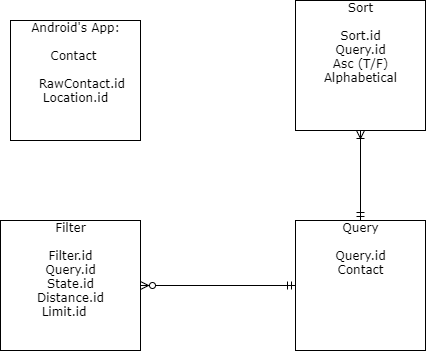
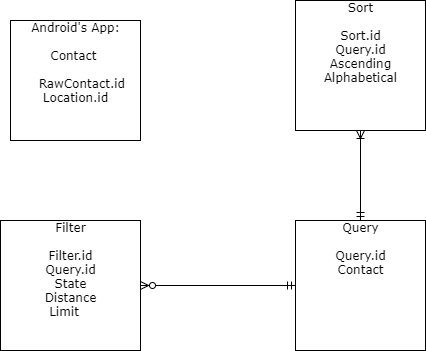
Added entity classes.

Changed region(s): [[0.0915, 0.7977, 0.2441, 0.9117], [0.7629, 0.1425, 0.9155, 0.1994]]

diff --git a/app/src/main/java/com/andpatten/contactmap/model/entity/Filter.java b/app/src/main/java/com/andpatten/contactmap/model/entity/Filter.java
@@ -1,0 +1,37 @@
+package com.andpatten.contactmap.model.entity;
+
+import androidx.annotation.NonNull;
+import androidx.room.ColumnInfo;
+import androidx.room.Entity;
+import androidx.room.ForeignKey;
+import androidx.room.PrimaryKey;
+
+@Entity(
+    foreignKeys = {
+        @ForeignKey(
+            entity = Query.class,
+            childColumns = "query_id",
+            parentColumns = "query_id",
+            onDelete = ForeignKey.CASCADE
+        )
+    }
+)
+
+public class Filter {
+
+  @PrimaryKey(autoGenerate = true)
+  @ColumnInfo(name = "filter_id")
+  private long id;
+
+  @ColumnInfo(name = "query_id")
+  private long queryId;
+
+  
+
+  private long state;
+
+  private long distance;
+
+  private long limit;
+
+}

diff --git a/app/src/main/java/com/andpatten/contactmap/model/entity/Sort.java b/app/src/main/java/com/andpatten/contactmap/model/entity/Sort.java
@@ -1,0 +1,34 @@
+package com.andpatten.contactmap.model.entity;
+
+import androidx.room.ColumnInfo;
+import androidx.room.Entity;
+import androidx.room.ForeignKey;
+import androidx.room.PrimaryKey;
+
+@Entity(
+    foreignKeys = {
+        @ForeignKey(
+            entity = Query.class,
+            childColumns = "query_id",
+            parentColumns = "query_id",
+            onDelete = ForeignKey.CASCADE
+        )
+    }
+
+)
+public class Sort {
+
+  @PrimaryKey(autoGenerate = true)
+  @ColumnInfo(name = "sort_id")
+  private long id;
+
+
+  @ColumnInfo(name = "query_id")
+  private long queryId;
+
+  private boolean asc;
+
+  private boolean alphabetical;
+
+
+}

diff --git a/app/src/main/java/com/andpatten/contactmap/model/entity/Query.java b/app/src/main/java/com/andpatten/contactmap/model/entity/Query.java
@@ -1,0 +1,19 @@
+package com.andpatten.contactmap.model.entity;
+
+import android.provider.ContactsContract.RawContacts;
+import androidx.room.ColumnInfo;
+import androidx.room.Entity;
+import androidx.room.ForeignKey;
+import androidx.room.PrimaryKey;
+
+@Entity
+public class Query {
+
+  @PrimaryKey(autoGenerate = true)
+  @ColumnInfo(name = "query_id")
+  private long id;
+
+  private RawContacts contact; //TODO double check "RawContacts" in documentation.
+
+
+}
